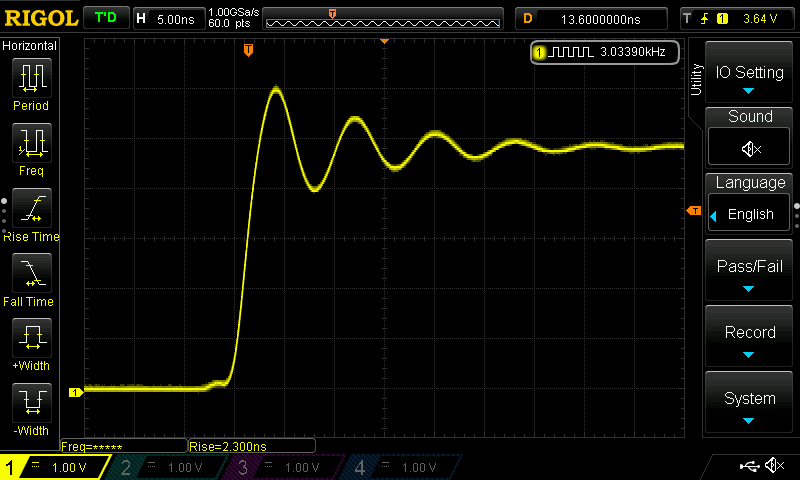
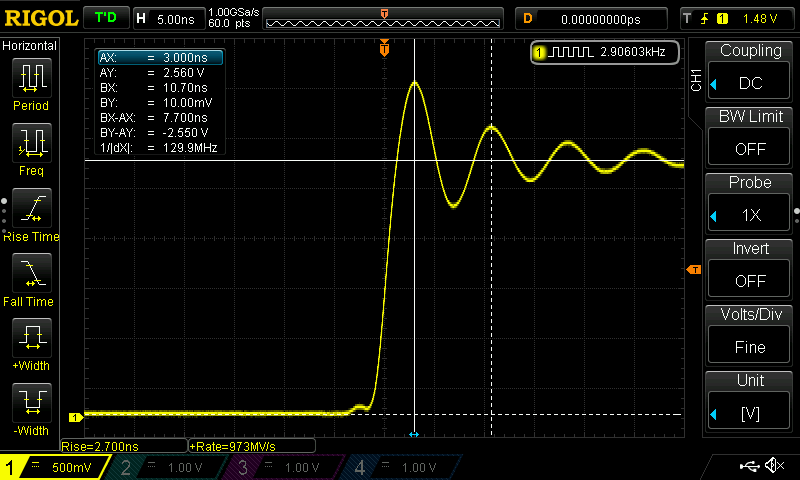
Updated SMD scope photo

diff --git a/SquarewaveGenerator/README.rst b/SquarewaveGenerator/README.rst
@@ -13,8 +13,10 @@ And here's the circuit running on the 'scope:
 
 .. image:: DS1Z_QuickPrint3.png
 
-Not bad for a cheap little circuit.  It draws less than 3mA at 5volts, unloaded.
-About 30mA into a 50 ohm load.
+Not bad for a cheap little circuit.  This shows a risetime of 2.7 nanoseconds.
+The ringing has a frequency of about 130MHz.  Here the generator is working
+into a 50Ω load and the peak-to-peak voltage is just over 2.5v.
+It draws just under 30mA.
 
 I have been building circuits on PCB lately using the PCB shops in China with
 through-hole components, but now I want to get into surface-mounted components
